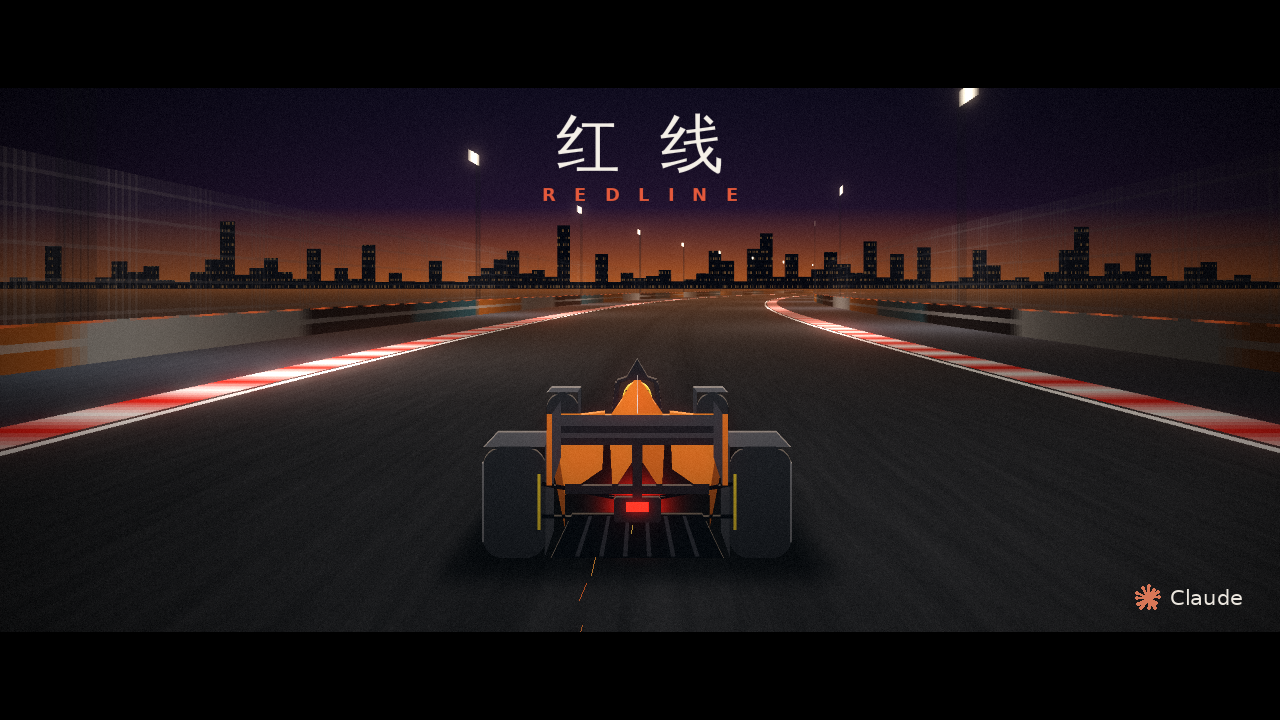
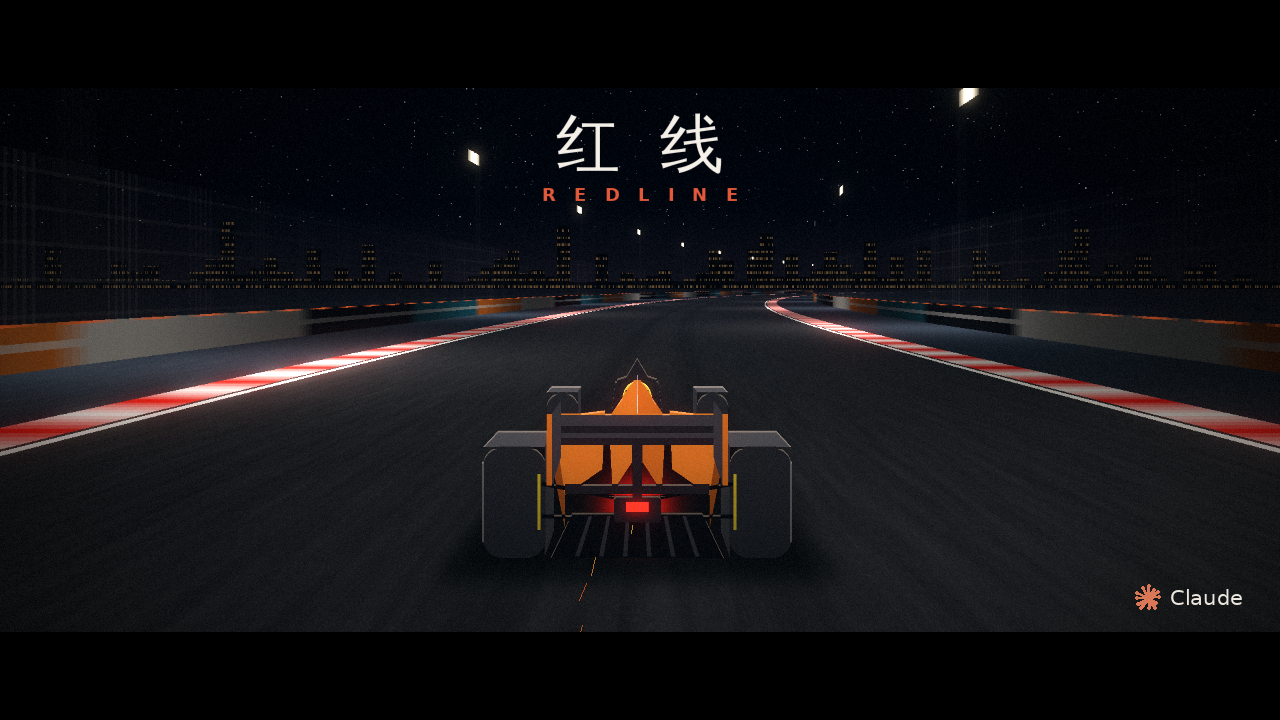
Redline animation: switch to full night sky with stars and lit skyline
Claude-Session: https://claude.ai/code/session_01VdfstcG9SycLHRcMYRkco1

Changed region(s): [[0.0, 0.1833, 1.0, 0.4889]]

diff --git a/video/race.py b/video/race.py
@@ -78,12 +78,18 @@ _X, _Y = np.meshgrid(np.arange(RW, dtype=np.float32) + 0.5, np.arange(RH, dtype=
 
 def sky(dx, dy, heading):
     h = np.clip(dy * 2.2, 0, 1)
-    top = np.array([0.02, 0.03, 0.08])
-    mid = np.array([0.16, 0.08, 0.20])
-    hor = np.array([0.95, 0.42, 0.16])
+    top = np.array([0.004, 0.006, 0.016])
+    mid = np.array([0.012, 0.016, 0.04])
+    hor = np.array([0.07, 0.06, 0.09])     # 城市光晕
     c = np.where(h[..., None] < 0.18, hor + (mid - hor) * (h[..., None] / 0.18),
                  mid + (top - mid) * np.clip((h[..., None] - 0.18) / 0.6, 0, 1) ** 0.7)
     c = c * (0.85 + 0.15 * np.exp(-((dx + 0.15) / 0.5) ** 2))[..., None]
+    # 星星（固定在天空，随赛道方向缓慢平移）
+    sx = np.floor((np.arctan(dx) * 180 + heading) * 6).astype(np.int64)
+    sy = np.floor(dy * 1100).astype(np.int64)
+    hsh = (np.sin(sx * 12.9898 + sy * 78.233) * 43758.5453) % 1
+    star = (hsh > 0.9965) & (dy > 0.06)
+    c = c + (star * ((hsh - 0.9965) / 0.0035) ** 2)[..., None] * np.array([0.8, 0.85, 1.0]) * 1.2
     # 城市天际线
     ang = np.arctan(dx) * 180 + heading
     cell = np.floor(ang / 2.3)
@@ -92,8 +98,8 @@ def sky(dx, dy, heading):
     hgt = np.where(tower, hgt + 0.028, hgt)
     bld = dy < hgt
     win = ((np.floor(ang * 9) % 2 == 0) & (np.floor(dy * 420) % 3 == 0)
-           & ((np.sin(np.floor(ang * 9) * 3.1 + np.floor(dy * 420) * 7.7) * 999 % 1) > 0.55))
-    bcol = np.array([0.025, 0.02, 0.04]) + win[..., None] * np.array([0.9, 0.62, 0.3]) * 0.55
+           & ((np.sin(np.floor(ang * 9) * 3.1 + np.floor(dy * 420) * 7.7) * 999 % 1) > 0.35))
+    bcol = np.array([0.012, 0.012, 0.02]) + win[..., None] * np.array([0.95, 0.7, 0.4]) * 0.6
     c = np.where(bld[..., None], bcol, c)
     return c
 
@@ -146,9 +152,9 @@ def env(t, phase, curv, mask_shift=0.0):
     # 灯光照明 + 掠射反光（湿润感）
     L = lamp_light(u, s)
     fres = np.clip(1 - (-dy) * 6, 0, 1) ** 3
-    col = col * (0.22 + 2.6 * L)[..., None] + fres[..., None] * np.array([0.55, 0.3, 0.16]) * 0.45
+    col = col * (0.22 + 2.6 * L)[..., None] + fres[..., None] * np.array([0.1, 0.12, 0.18]) * 0.45
     fog = np.exp(-z / 260)[..., None]
-    col = col * fog + np.array([0.6, 0.3, 0.14]) * (1 - fog)
+    col = col * fog + np.array([0.05, 0.05, 0.07]) * (1 - fog)
     img = np.where(g[..., None] & (tg < 4999)[..., None], col, img)
 
     # 护墙 / 防护网 / 灯柱（两侧竖直曲面）
@@ -187,7 +193,7 @@ def env(t, phase, curv, mask_shift=0.0):
     wall_c = np.where(band[..., None], wall_c * 0.4 + 0.55, wall_c)
     Lw = lamp_light(np.full_like(tw, WALL - 1.5) * best_side, sw)
     wall_c = wall_c * (0.12 + 0.55 * Lw)[..., None]
-    wall_c = wall_c * fogw + np.array([0.6, 0.3, 0.14]) * (1 - fogw)
+    wall_c = wall_c * fogw + np.array([0.05, 0.05, 0.07]) * (1 - fogw)
     is_wall = vis & (yw <= WALL_H)
     img = np.where(is_wall[..., None], wall_c, img)
     led = vis & (yw > WALL_H - 0.06) & (yw <= WALL_H) & ((sw % 3) < 1.2)
@@ -197,8 +203,8 @@ def env(t, phase, curv, mask_shift=0.0):
     is_fence = vis & (yw > WALL_H) & (yw < FENCE_H)
     mesh = ((np.abs(((sw * 1.3) % 1) - 0.5) < 0.06) | (np.abs(((yw * 1.3) % 1) - 0.5) < 0.06))
     post = (sw % 4) < 0.12
-    fence_a = np.where(post, 0.9, np.where(mesh, 0.35, 0.12)) * np.exp(-tw / 120)
-    fence_c = np.array([0.32, 0.3, 0.3]) * (0.4 + 1.2 * Lw)[..., None]
+    fence_a = np.where(post, 0.9, np.where(mesh, 0.25, 0.06)) * np.exp(-tw / 120)
+    fence_c = np.array([0.3, 0.3, 0.32]) * (0.12 + 0.7 * Lw)[..., None]
     img = np.where(is_fence[..., None], img * (1 - fence_a[..., None]) + fence_c * fence_a[..., None], img)
 
     # 灯柱 + 灯头
